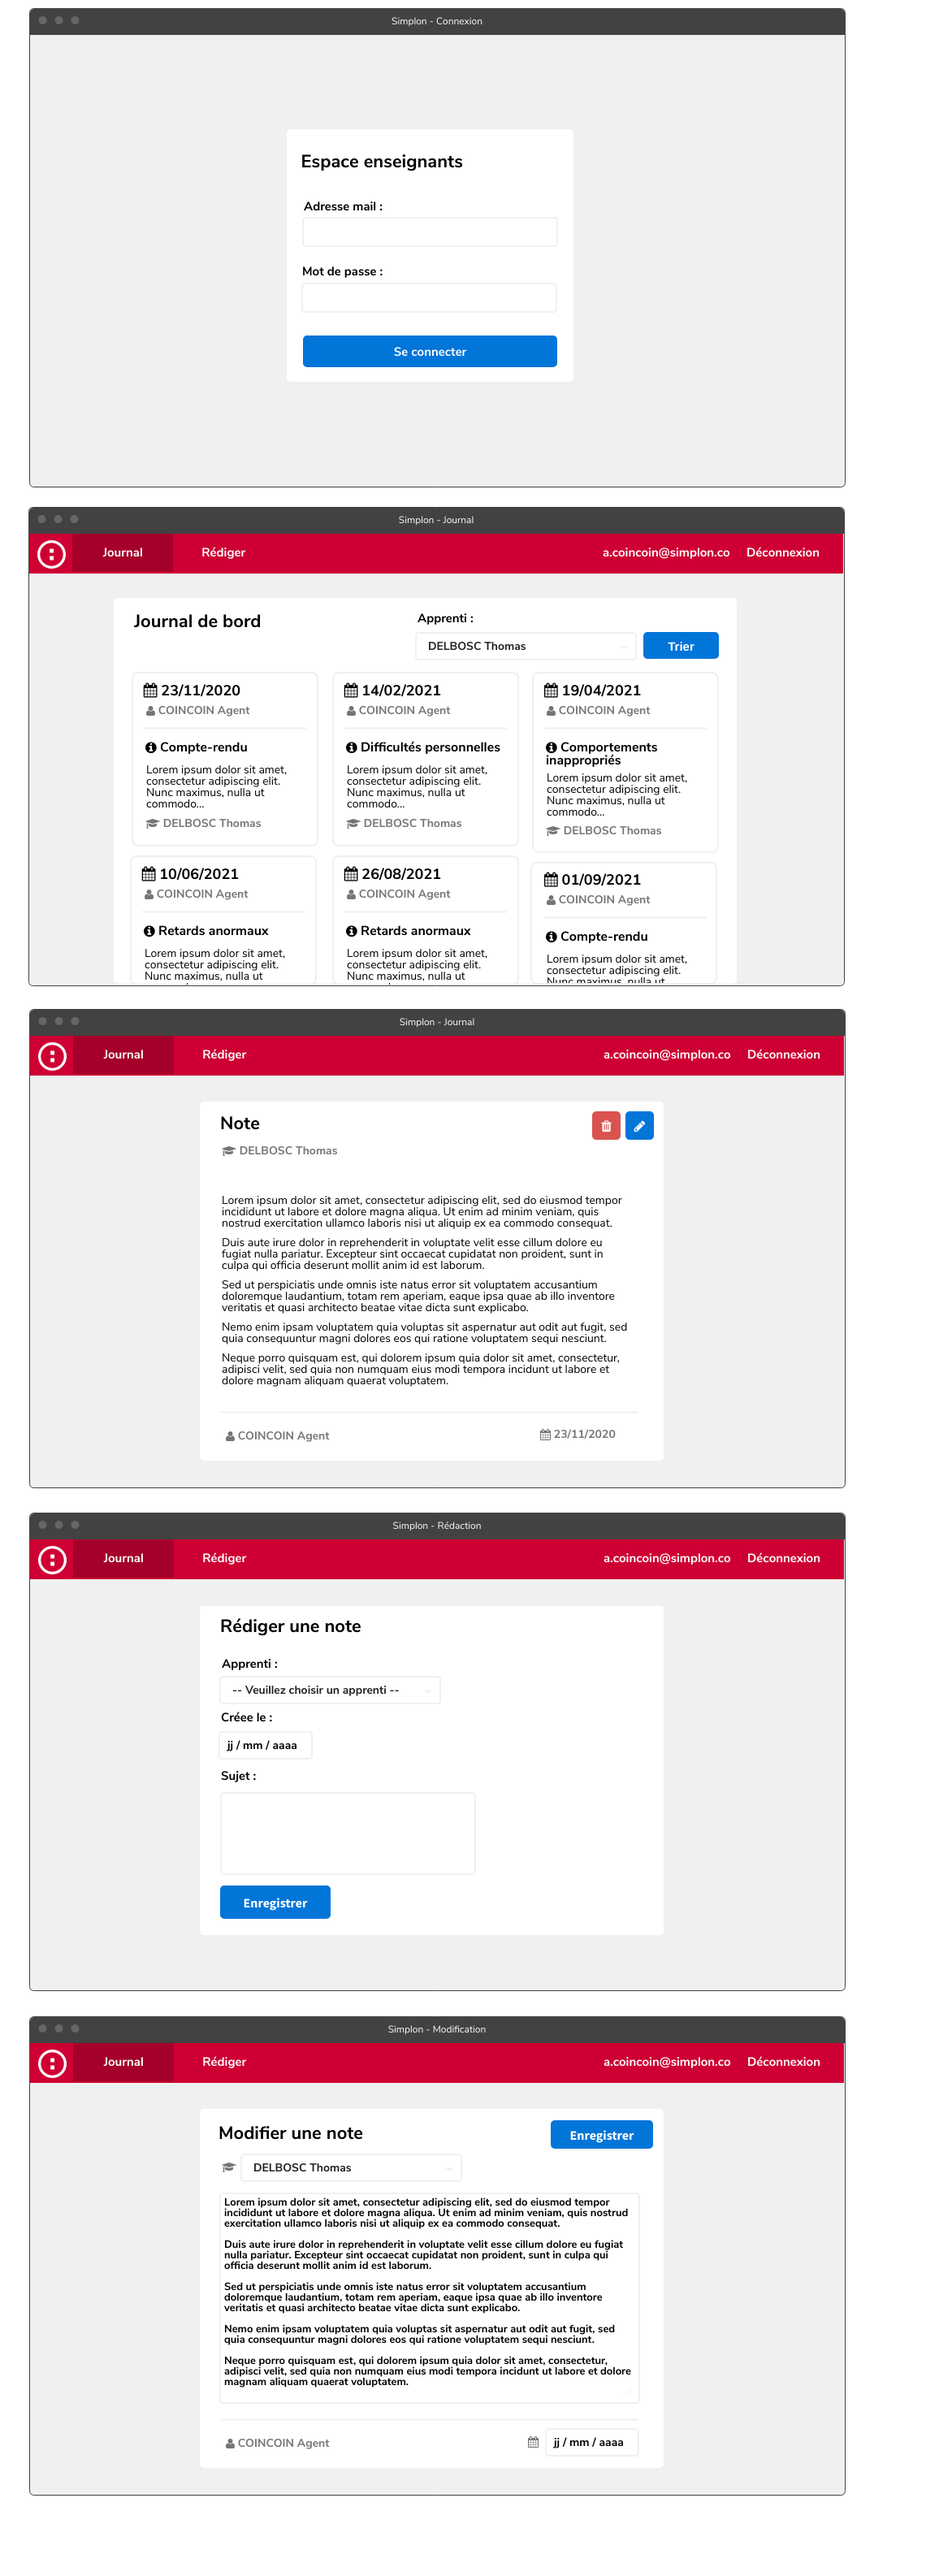
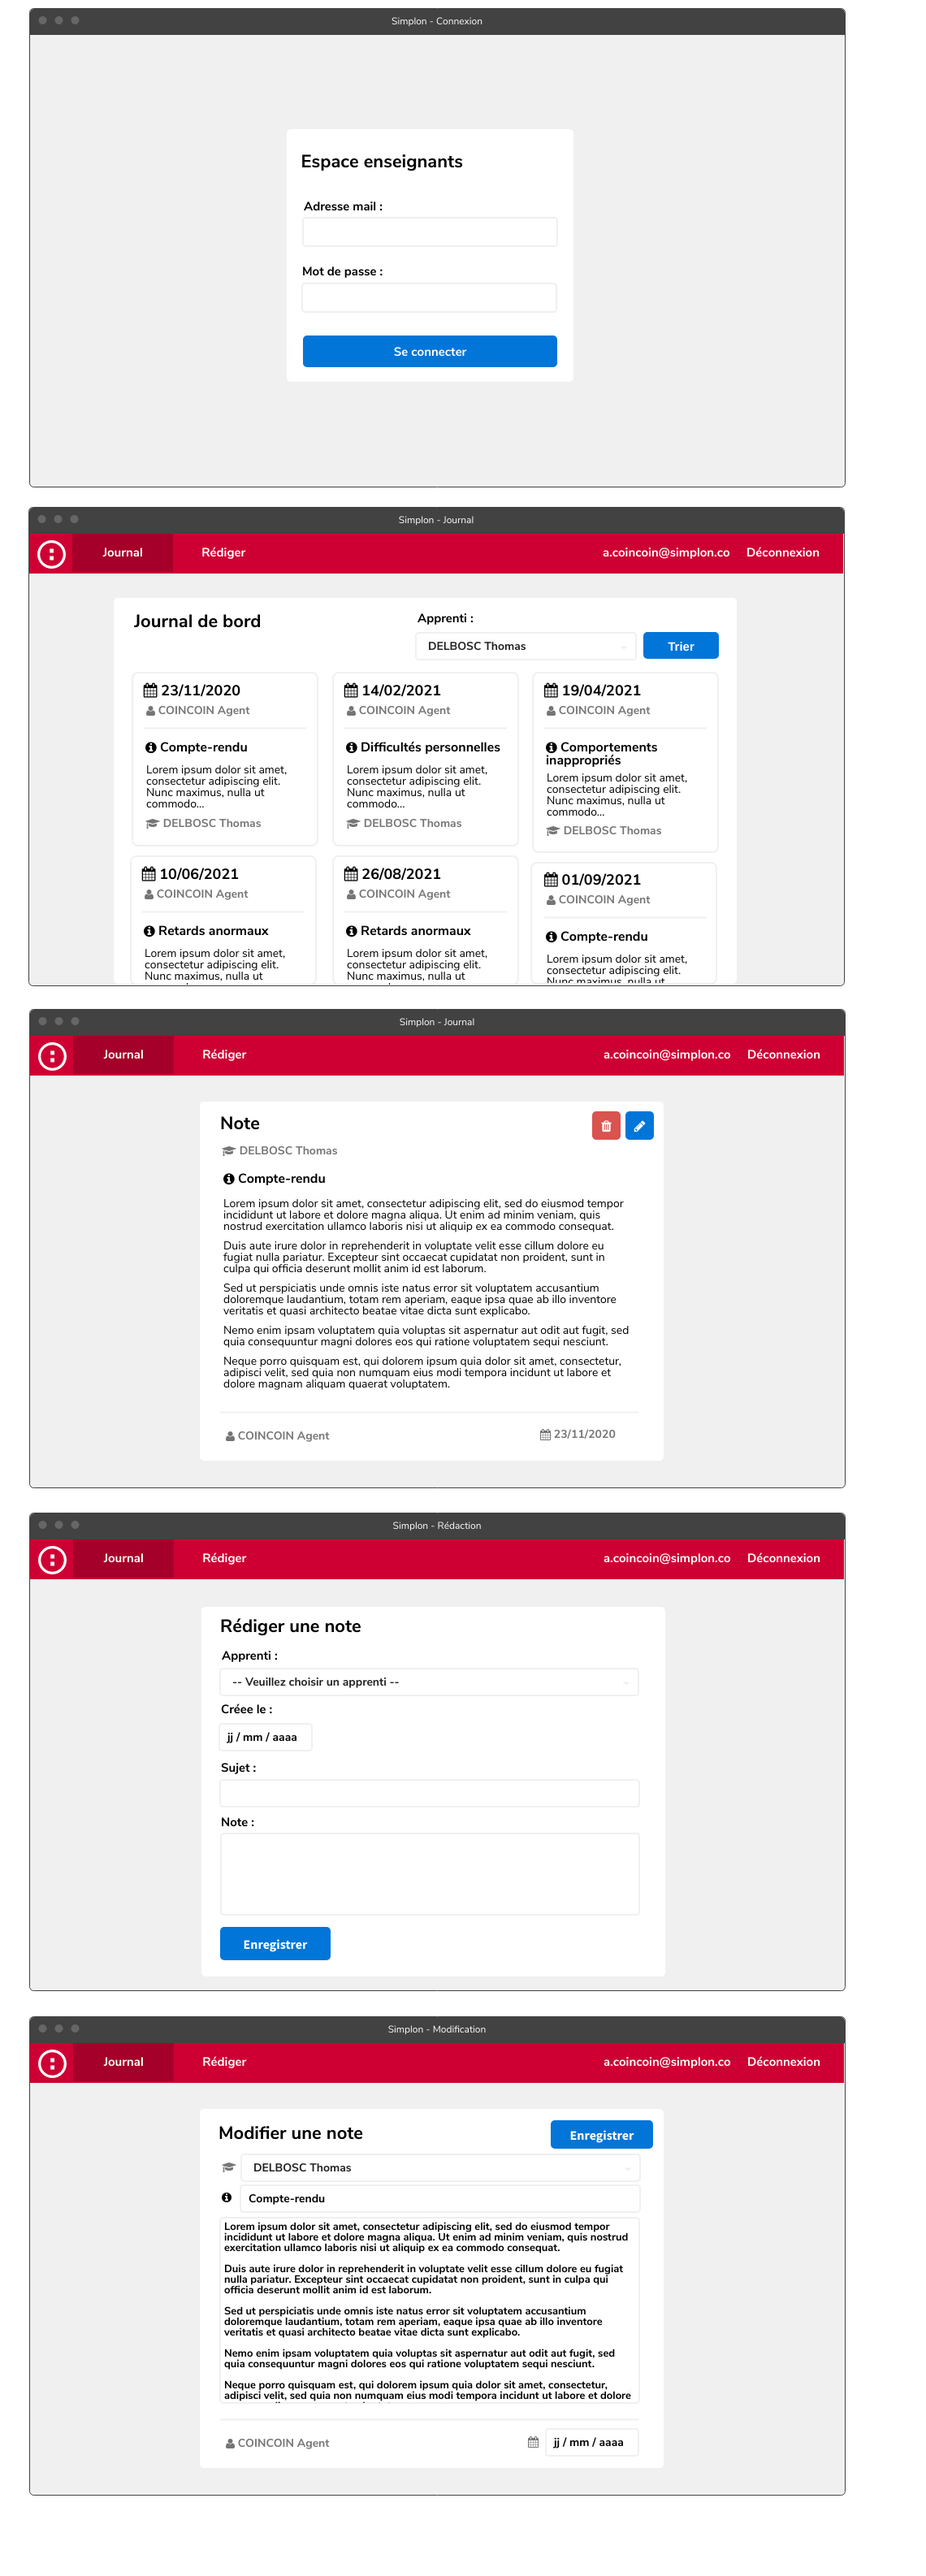
Formulaire ajout notes + affichage notes

Changed region(s): [[0.2456, 0.843, 0.6754, 0.9366], [0.2456, 0.4371, 0.6754, 0.562], [0.2149, 0.6244, 0.3684, 0.7805]]

diff --git a/templates/static/css/styles.css b/templates/static/css/styles.css
@@ -27,3 +27,25 @@ img.logo {
 div.card.border.border-2 {
     border-color: #f0f0f0 !important;
 }
+
+input.date-input {
+    display: block;
+    width: auto;
+    padding: .375rem .75rem;
+    font-size: 1rem;
+    font-weight: 400;
+    line-height: 1.5;
+    color: #212529;
+    background-color: #fff;
+    background-clip: padding-box;
+    border: 2px solid #f0f0f0;
+    -webkit-appearance: none;
+    -moz-appearance: none;
+    appearance: none;
+    border-radius: .25rem;
+    transition: border-color .15s ease-in-out,box-shadow .15s ease-in-out;
+}
+
+.form-control {
+    border: 2px solid #f0f0f0 !important;
+}

diff --git a/templates/new.html b/templates/new.html
@@ -16,8 +16,10 @@ Rédaction
             {% endif %}
             <form method="post" class="form">
                 {% csrf_token %}
-                {{form}}
-                <button type="submit" class="btn btn-primary">Enregistrer</button>
+                {{form.as_p}}
+                <p>
+                    <button type="submit" class="btn btn-primary fw-bold">Enregistrer</button>
+                </p>
             </form>
         </p>
     </div>

diff --git a/notes/views.py b/notes/views.py
@@ -8,7 +8,8 @@ from .forms import formulaireNote
 def getNotes(request):
     if request.user.is_authenticated:
         notes = Note.objects.all()
-        return render(request, "notes.html", {"list": notes})
+        students = Student.objects.all()
+        return render(request, "notes.html", {"list": notes, "choi" : students})
     else:
         return redirect('/')
 
@@ -20,7 +21,9 @@ def newNote(request):
         if request.method == 'POST':
             form = formulaireNote(request.POST)
             if form.is_valid:
-                form.save()
+                new_post = form.save(commit=False)
+                new_post.author = request.user
+                new_post.save()
             return render(request, "new.html", {"form": form, "msg": "Note enregistrée avec succès!"})
             
         return render(request, "new.html", {"form": form})

diff --git a/notes/forms.py b/notes/forms.py
@@ -1,10 +1,13 @@
-from django.forms import ModelForm, DateTimeInput
+from django.forms import ModelForm, DateTimeInput, TextInput, Textarea, Select
 from .models import Note
     
 class formulaireNote(ModelForm):
     class Meta:
         model = Note
-        fields = '__all__'
+        fields = ('student', 'date', 'subject', 'note',)
         widgets = {
-            'date': DateTimeInput(attrs={'type': 'date'})
+            'student': Select(attrs={'class': 'form-control'}),
+            'date': DateTimeInput(attrs={'type': 'date', 'class': 'date-input'}),
+            'subject': TextInput(attrs={'class': 'form-control'}),
+            'note': Textarea(attrs={'class': 'form-control'}),
         }

diff --git a/students/models.py b/students/models.py
@@ -5,3 +5,5 @@ class Student(models.Model):
     firstname = models.CharField(max_length=30)
     lastname = models.CharField(max_length=30)
     classe = models.CharField(max_length=8)
+    def __str__(self):
+        return str(self.lastname + " " + self.firstname)

diff --git a/users/models.py b/users/models.py
@@ -47,3 +47,5 @@ class User(AbstractUser):
     REQUIRED_FIELDS = []
 
     objects = UserManager()
+    def __str__(self):
+        return str(self.last_name + " " + self.first_name)
